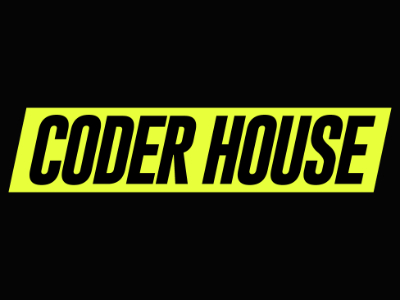
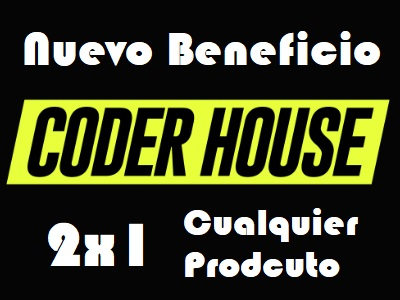
avances

diff --git a/css/styles.css b/css/styles.css
@@ -180,6 +180,10 @@
   /* background-image: url(../img/img_pruebas/carton.jpg); */
 }
 
+.mainIndex .section2Novedades h2 {
+  padding: 20px;
+}
+
 .mainIndex .section2Novedades .contenedorNovedades {
   display: -webkit-box;
   display: -ms-flexbox;
@@ -188,12 +192,19 @@
   -webkit-box-direction: normal;
       -ms-flex-flow: row wrap;
           flex-flow: row wrap;
-  -ms-flex-pack: distribute;
-      justify-content: space-around;
+  -webkit-box-pack: center;
+      -ms-flex-pack: center;
+          justify-content: center;
 }
 
 .mainIndex .section2Novedades .contenedorNovedades a {
-  width: 150px;
+  width: 300px;
+  margin: 10px 0 10px 0;
+}
+
+.mainIndex .section2Novedades .contenedorNovedades a img {
+  width: 300px;
+  border-radius: 4%;
 }
 
 /*---------------------------------------------*/
@@ -461,8 +472,7 @@ footer {
   text-align: center;
   color: white;
   font-size: 16px;
-  background-image: -webkit-gradient(linear, left top, left bottom, from(darkred), to(red));
-  background-image: linear-gradient(to bottom, darkred, red);
+  background-color: #640606;
 }
 
 footer .contenidoFooter {
@@ -488,7 +498,7 @@ footer .contenidoFooter div h4 {
 
 footer .contenidoFooter div ul li {
   list-style: none;
-  margin-top: 5px;
+  margin-top: 15px;
   position: relative;
   right: 10px;
 }
@@ -499,10 +509,11 @@ footer .contenidoFooter div ul li a {
 }
 
 footer .derechos {
+  width: 65%;
   border-top: solid 1px white;
   padding-top: 20px;
-  margin-top: 40px;
-  margin-bottom: 40px;
+  margin: auto;
+  padding-bottom: 30px;
 }
 
 footer .volverArriba {
@@ -632,6 +643,6 @@ body {
           box-sizing: border-box;
   margin: 0;
   padding: 0;
-  border: solid 1px #d6961f;
+  /* border: solid 1px rgb(214, 150, 31);    */
 }
 /*# sourceMappingURL=styles.css.map */

diff --git a/index.html b/index.html
@@ -133,22 +133,13 @@
             <h2>Novedades</h2>
             <div class="contenedorNovedades">
                 <a href="https://plataforma.coderhouse.com/beneficios" target="blank">
-                    <div class="section2Novedades__1">
-                    <h3>Beneficio</h3>
-                    <p>2x1 en cualquier combo</p>
-                    </div>
+                    <img src="./img/imagenes-otras/novedades/benef_coder.jpg" alt="logo-coder">
                 </a>
                 <a href="locales.html">
-                    <div class="section2Novedades__2">
-                    <h3>Nueva Córdoba</h3>
-                    <p>Blvd. Arturo Illia 540, apertura 20/11</p>
-                    </div>
+                    <img src="./img/imagenes-otras/novedades/cintaroja.jpg" alt="nuevo-local">
                 </a>
                 <a href="menu.html">
-                    <div class="section2Novedades__3">
-                    <h3>Salsa Especial</h3>
-                    <p>Probala con cualquiera de nuestras burgers</p>
-                    </div>
+                    <img src="./img/imagenes-otras/novedades/novedad_salsa.jpg" alt="">
                 </a>
             </div>
 

diff --git a/scss/_header-footer.scss b/scss/_header-footer.scss
@@ -70,7 +70,7 @@ footer{
     text-align: center;
     color: white;
     font-size: 16px;
-    background-image: linear-gradient(to bottom, darkred, red);
+    background-color: rgb(100, 6, 6);
     .contenidoFooter{
         display: flex;
         flex-flow: row wrap;
@@ -84,7 +84,7 @@ footer{
             ul{
                 li{
                     list-style: none;
-                    margin-top: 5px;
+                    margin-top: 15px;
                     position: relative;
                     right: 10px;
                     a{
@@ -96,11 +96,11 @@ footer{
         }
     }
     .derechos{
-        
+        width: 65%;
         border-top: solid 1px white;
         padding-top: 20px;
-        margin-top: 40px;
-        margin-bottom: 40px;
+        margin:auto;
+        padding-bottom: 30px;
     }
     .volverArriba{
         margin-bottom: 20px;

diff --git a/scss/_index.scss b/scss/_index.scss
@@ -112,14 +112,23 @@
         }
     }
     .section2Novedades{
+        h2{
+            padding: 20px;
+        }
         border-top: dotted 3px white;
         /* background-image: url(../img/img_pruebas/carton.jpg); */
         .contenedorNovedades{
             display: flex;
             flex-flow: row wrap;
-            justify-content: space-around;
+            justify-content: center;
+            
             a{
-                width: 150px;
+                width: 300px;
+                margin: 10px 0 10px 0;
+                img{
+                    width: 300px;
+                    border-radius: 4%;
+                }
             }
         }
     }

diff --git a/scss/styles.scss b/scss/styles.scss
@@ -49,7 +49,7 @@ body{
     box-sizing: border-box;
     margin: 0;
     padding: 0;
-    border: solid 1px rgb(214, 150, 31);   
+    /* border: solid 1px rgb(214, 150, 31);    */
 }
 
 
